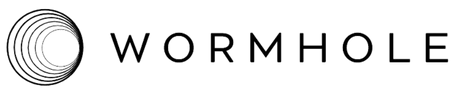
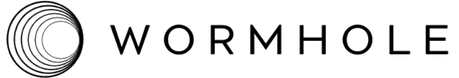
advance

diff --git a/public/usdc-bridge/index.html b/public/usdc-bridge/index.html
@@ -104,14 +104,14 @@
       </div>
       <div class="poweredBy">
         <span>Powered by </span>
-        <a href="https://developers.circle.com/stablecoin/docs/cctp-faq" target="_blank">
-          <img alt="Powered by Circle" loading="lazy" width="120" height="30" decoding="async" data-nimg="1"
+        <a href="https://developers.circle.com/stablecoin/docs/cctp-faq" target="_blank" style="height: 30px;">
+          <img alt="Powered by Circle" loading="lazy" width="auto" height="30" decoding="async" data-nimg="1"
             style="color:transparent" src="circle.png">
         </a>
         <span> &amp; </span>
-        <a href="https://wormhole.com/" target="_blank">
-          <img alt="Powered by Wormhole" loading="lazy" width="200"
-            height="45" decoding="async" data-nimg="1" style="color:transparent" src="wormhole.png">
+        <a href="https://wormhole.com/" target="_blank" style="height: 30px;">
+          <img alt="Powered by Wormhole" loading="lazy" width="auto"
+            height="30" decoding="async" data-nimg="1" style="color:transparent" src="wormhole.png">
         </a>
       </div>
       <div class="footer">

diff --git a/public/usdc-bridge/index.css b/public/usdc-bridge/index.css
@@ -159,6 +159,7 @@ body {
 .poweredBy {
   font-family: Poppins;
   display: flex;
+  flex-wrap: wrap;
   flex-direction: row;
   justify-content: center;
   align-items: center;
@@ -167,6 +168,7 @@ body {
   padding-bottom: 40px;
   font-size: 18px;
   font-weight: 400;
+  white-space: nowrap;
 }
 
 .poweredBy img {
